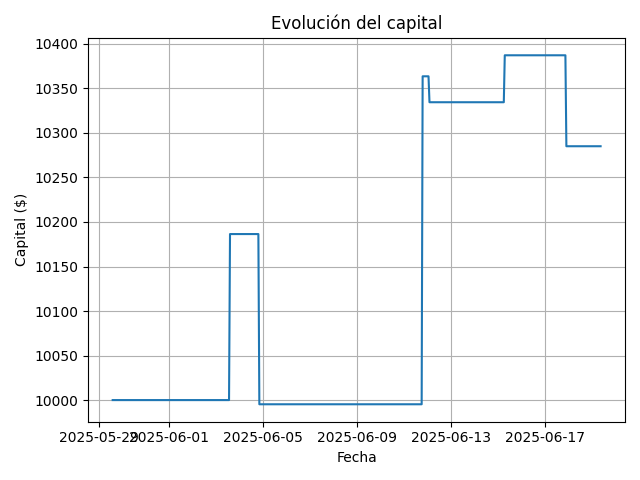
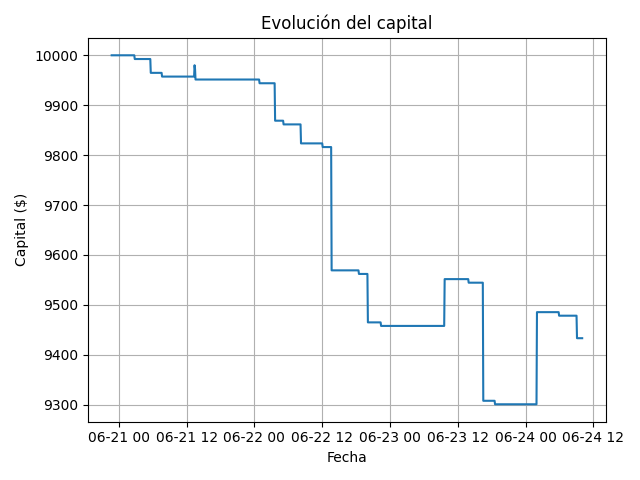
fix rsi strategy

diff --git a/src/backtest.py b/src/backtest.py
@@ -10,6 +10,8 @@ def backtest_signals(df, initial_capital=10000):
     position = 0
     entry_price = 0
     equity_curve = []
+    FEE = 0.00075          # 0.075 % maker
+    SLIPPAGE = 0.0004      # 0.04 % ejecución
 
     for i in range(len(df)):
         price = df.iloc[i]['close']
@@ -17,10 +19,13 @@ def backtest_signals(df, initial_capital=10000):
 
         if signal == 1 and position == 0:
             position = 1
-            entry_price = price
+            entry_price = price * (1 + SLIPPAGE)
+            capital *= (1 - FEE)
         elif signal == -1 and position == 1:
-            pnl = (price - entry_price) / entry_price
+            exit_price = price * (1 - SLIPPAGE)
+            pnl = (exit_price - entry_price) / entry_price
             capital *= (1 + pnl)
+            capital *= (1 - FEE)
             position = 0
 
         equity_curve.append(capital)

diff --git a/src/run_backtest.py b/src/run_backtest.py
@@ -8,7 +8,7 @@ from dotenv import load_dotenv
 load_dotenv()
 
 # === Cargar datos desde Binance API y guardarlos en CSV ===
-df = get_historical_data(symbol='BTC/USDT', timeframe='1h', limit=500)
+df = get_historical_data(symbol='BTC/USDT', timeframe='5m', limit=6000)
 df.to_csv('data/BTCUSDT.csv', index=False)
 
 # === Cargar estrategia desde .env ===

diff --git a/src/paper_trading.py b/src/paper_trading.py
@@ -18,6 +18,8 @@ quantity = 0.001  # ajusta según tu balance simulado
 
 FEE_RATE = 0.001      # 0.1%
 SLIPPAGE = 0.0005     # 0.05%
+STOP_LOSS = -0.005    # –0.5 %
+TAKE_PROFIT =  0.01   # +1 %
 
 def get_price(symbol="BTCUSDT"):
     ticker = client.get_symbol_ticker(symbol=symbol)
